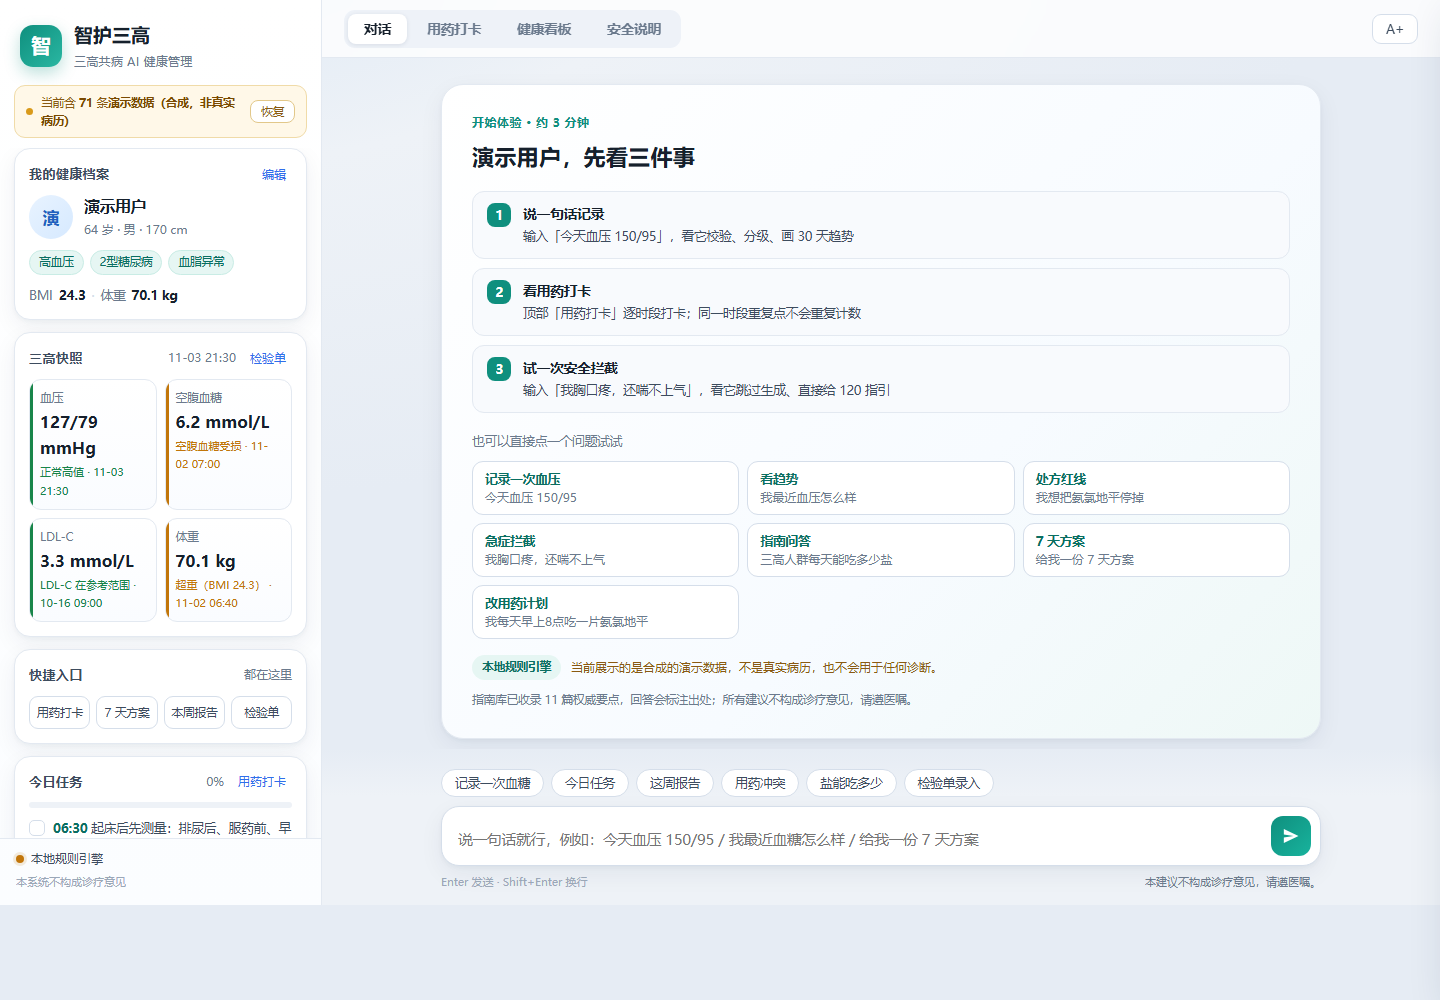
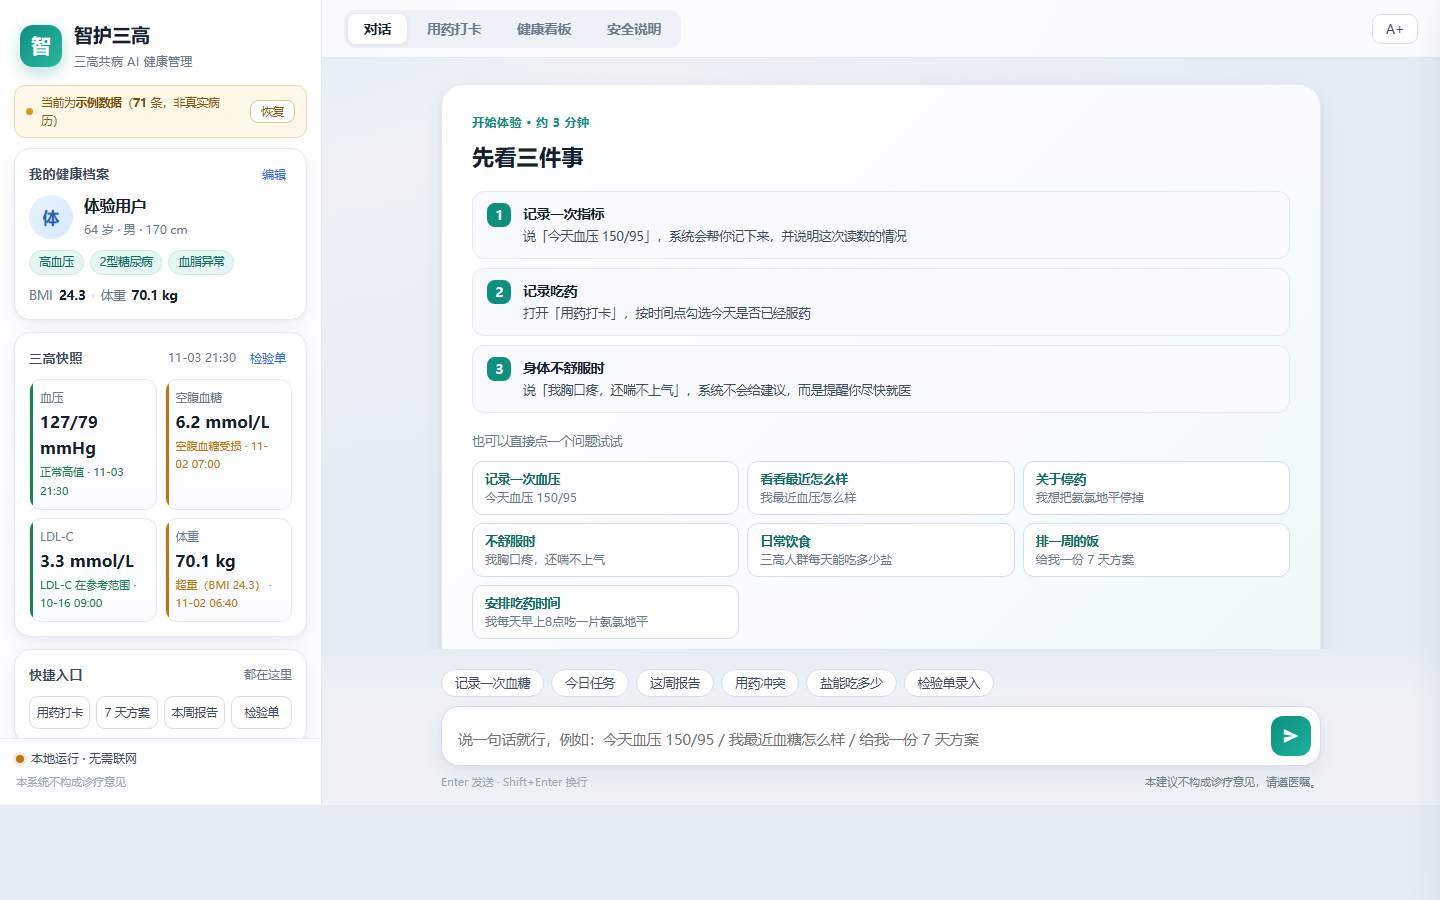
polish: 首页文案改成面向用户的大白话
- 「演示用户，先看三件事」→「先看三件事」
- 三步说明去掉“校验/分级/跳过生成”等内部说法：
  记录一次指标 / 记录吃药 / 身体不舒服时
- 推荐问题标签改成用户视角：看看最近怎么样、关于停药、不舒服时、日常饮食、排一周的饭、安排吃药时间
- 合成数据说明改为“页面里的数字是系统生成的示例数据，不是你的真实病历”
- 档案默认名「演示用户」→「体验用户」；状态标签「本地规则引擎」→「本地运行 · 无需联网」

diff --git a/ui/app.js b/ui/app.js
@@ -1,4 +1,4 @@
-/* =========================================================
+/* =========================================================
    智护三高 · 前端逻辑（原生 JS，无任何第三方依赖）
    ========================================================= */
 const $ = (sel, root = document) => root.querySelector(sel);
@@ -381,15 +381,15 @@ function renderWelcome() {
   wrap.innerHTML = `
     <div class="welcome-card judge">
       <div class="w-kicker">开始体验 · 约 3 分钟</div>
-      <h2>${esc(p.name || '你好')}，先看三件事</h2>
+      <h2>先看三件事</h2>
       <div class="steps">${steps}</div>
       <div class="w-sub">也可以直接点一个问题试试</div>
       <div class="q-grid">${questions}</div>
       <div class="w-foot">
         <span class="w-tag">${esc(j.engine_label || '本地规则引擎')}</span>
-        <span class="w-note">${esc(j.notice || '演示数据为合成的模拟数据，不是真实病历')}</span>
+        <span class="w-note">${esc(j.notice || '页面里的数字是系统生成的示例数据，不是你的真实病历。')}</span>
       </div>
-      <div class="w-note2">指南库已收录 ${kbCount} 篇权威要点，回答会标注出处；所有建议不构成诊疗意见，请遵医嘱。</div>
+      <div class="w-note2">已经整理了 ${kbCount} 篇权威指南的要点，回答会注明出处。所有建议仅供参考，具体请遵医嘱。</div>
     </div>`;
   thread.appendChild(wrap);
   $$('.q-chip', wrap).forEach(b => {
@@ -1378,7 +1378,7 @@ function bindUI() {
   $('#profileMask').onclick = (e) => { if (e.target.id === 'profileMask') e.target.classList.remove('show'); };
   $('#saveProfileBtn').onclick = async () => {
     const body = {
-      name: $('#f_name').value.trim() || '演示用户',
+      name: $('#f_name').value.trim() || '体验用户',
       birth_year: Number($('#f_birth').value) || null,
       sex: $('#f_sex').value,
       height_cm: Number($('#f_height').value) || null,

diff --git a/ui/index.html b/ui/index.html
@@ -22,7 +22,7 @@
 
     <div class="demo-strip" id="demoStrip" hidden>
       <span class="demo-dot"></span>
-      <div class="demo-text">当前含 <b id="demoCount">0</b> 条<b>演示数据（合成，非真实病历）</b></div>
+      <div class="demo-text">当前为<b>示例数据</b>（<b id="demoCount">0</b> 条，非真实病历）</div>
       <button class="demo-clear" id="demoResetBtn">恢复</button>
     </div>
 

diff --git a/app.py b/app.py
@@ -1,4 +1,4 @@
-# -*- coding: utf-8 -*-
+# -*- coding: utf-8 -*-
 """智护三高 · 服务入口（零第三方依赖，仅用 Python 标准库）。
 
 启动：
@@ -574,21 +574,24 @@ class Handler(BaseHTTPRequestHandler):
             "mode": JUDGE_MODE,
             "admin_enabled": ENABLE_ADMIN_API,
             "engine": engine,
-            "engine_label": "本地规则引擎" if engine == "local" else f"在线大模型（{LLM_MODEL}）",
-            "notice": "当前展示的是合成的演示数据，不是真实病历，也不会用于任何诊断。",
+            "engine_label": "本地运行 · 无需联网" if engine == "local" else f"在线大模型（{LLM_MODEL}）",
+            "notice": "页面里的数字是系统生成的示例数据，不是你的真实病历。",
             "questions": [
                 {"label": "记录一次血压", "q": "今天血压 150/95"},
-                {"label": "看趋势", "q": "我最近血压怎么样"},
-                {"label": "处方红线", "q": "我想把氨氯地平停掉"},
-                {"label": "急症拦截", "q": "我胸口疼，还喘不上气"},
-                {"label": "指南问答", "q": "三高人群每天能吃多少盐"},
-                {"label": "7 天方案", "q": "给我一份 7 天方案"},
-                {"label": "改用药计划", "q": "我每天早上8点吃一片氨氯地平"},
+                {"label": "看看最近怎么样", "q": "我最近血压怎么样"},
+                {"label": "关于停药", "q": "我想把氨氯地平停掉"},
+                {"label": "不舒服时", "q": "我胸口疼，还喘不上气"},
+                {"label": "日常饮食", "q": "三高人群每天能吃多少盐"},
+                {"label": "排一周的饭", "q": "给我一份 7 天方案"},
+                {"label": "安排吃药时间", "q": "我每天早上8点吃一片氨氯地平"},
             ],
             "steps": [
-                {"t": "1", "title": "说一句话记录", "desc": "输入「今天血压 150/95」，看它校验、分级、画 30 天趋势"},
-                {"t": "2", "title": "看用药打卡", "desc": "顶部「用药打卡」逐时段打卡；同一时段重复点不会重复计数"},
-                {"t": "3", "title": "试一次安全拦截", "desc": "输入「我胸口疼，还喘不上气」，看它跳过生成、直接给 120 指引"},
+                {"t": "1", "title": "记录一次指标",
+                 "desc": "说「今天血压 150/95」，系统会帮你记下来，并说明这次读数的情况"},
+                {"t": "2", "title": "记录吃药",
+                 "desc": "打开「用药打卡」，按时间点勾选今天是否已经服药"},
+                {"t": "3", "title": "身体不舒服时",
+                 "desc": "说「我胸口疼，还喘不上气」，系统不会给建议，而是提醒你尽快就医"},
             ],
         }
 

diff --git a/tools/profile.py b/tools/profile.py
@@ -1,4 +1,4 @@
-# -*- coding: utf-8 -*-
+# -*- coding: utf-8 -*-
 """健康档案工具。"""
 from __future__ import annotations
 
@@ -9,7 +9,7 @@ from config import DEFAULT_USER
 from data import db
 
 DEFAULT_PROFILE = {
-    "name": "演示用户",
+    "name": "体验用户",
     "birth_year": 1962,
     "sex": "男",
     "height_cm": 170.0,
